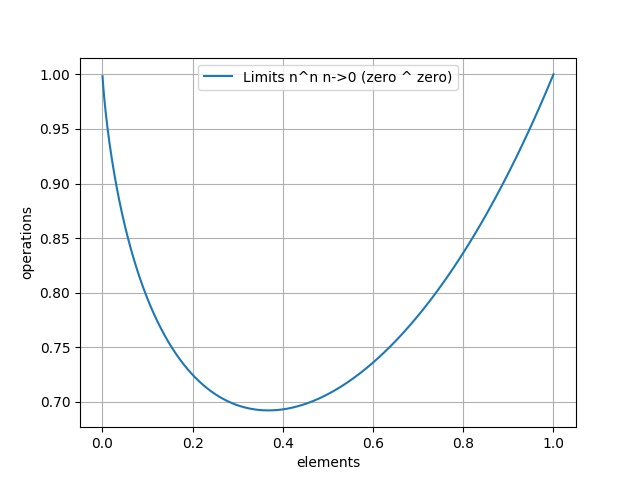
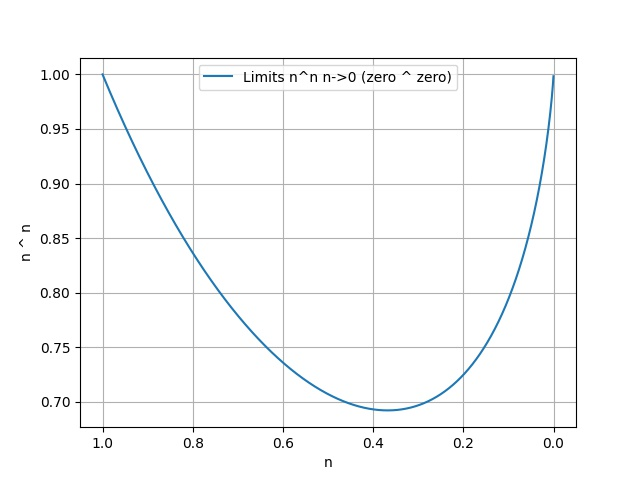
'autogen README.tex.md:added creat_TOC comments'

diff --git a/matplotlib/plot.py b/matplotlib/plot.py
@@ -13,7 +13,7 @@ from pprint import pprint
 
 from pathlib import Path
 
-IMAGE_SCRATCH = Path('../scratch')    # scratch space not maintained by git
+IMAGE_SCRATCH = Path('./scratch')    # scratch space not maintained by git
 # NOTE to save jpg using matplotlib
 #> pip install pillow
 # plt.plot([1, 2])
@@ -50,17 +50,20 @@ for n in float_range:
     zero_2pow_zero.append(pow(n, n))    # pow(n,n) == n**n
     
 
-plt.xlabel('elements') 
-plt.ylabel('operations')
+plt.xlabel('n')               # elements
+plt.ylabel('n ^ n')          # 
 # plt.xscale('log')               # set x scale logarithmic
 # plt.yscale('log')               # set y scale logarithmic
 
 #plt.plot(elements, cos, label = "Graph of Cos (n deg to rads)")
 plt.plot(elements, zero_2pow_zero, label="Limits n^n n->0 (zero ^ zero)")
+plt.gca().invert_xaxis()
+
 
 plt.grid() 
 plt.legend()
-plt.savefig( IMAGE_SCRATCH.join('matplot_graph.jpg') )
+print(Path.cwd())
+plt.savefig( IMAGE_SCRATCH.joinpath('matplot_graph.jpg') )
 plt.show()
 
 

diff --git a/README.tex.md b/README.tex.md
@@ -21,18 +21,21 @@ Maths revision & learning
 4. [Recurrence resolution for - Algos L3 34m](#recurrence-resolution-for--algos-l3-34m)  
 	1. [Problems](#problems)  
 	2. [References](#references)  
-5. [Another topic](#another-topic)  
-	1. [References](#references)  
-6. [How To s](#how-to-s)  
+5. [Python - matplotlib, numpy](#python--matplotlib-numpy)  
 	1. [How so I plot a chart with python?](#how-so-i-plot-a-chart-with-python)  
 	2. [How do I save that chart to disk?](#how-do-i-save-that-chart-to-disk)  
-	3. [Where are Latex Examples for this repo?](#where-are-latex-examples-for-this-repo)  
-	4. [How to setup autogenerate README.md file from RTF notes?](#how-to-setup-autogenerate-readmemd-file-from-rtf-notes)  
-	5. [How do I autogenerate README.md file from RTF?](#how-do-i-autogenerate-readmemd-file-from-rtf)  
-	6. [How can I add maths formulas to README.md?](#how-can-i-add-maths-formulas-to-readmemd)  
+	3. [How Do I invert x axis?](#how-do-i-invert-x-axis)  
+	4. [References](#references)  
+6. [Another topic](#another-topic)  
+	1. [References](#references)  
+7. [How To s](#how-to-s)  
+	1. [Where are Latex Examples for this repo?](#where-are-latex-examples-for-this-repo)  
+	2. [How to setup autogenerate README.md file from RTF notes?](#how-to-setup-autogenerate-readmemd-file-from-rtf-notes)  
+	3. [How do I autogenerate README.md file from RTF?](#how-do-i-autogenerate-readmemd-file-from-rtf)  
+	4. [How can I add maths formulas to README.md?](#how-can-i-add-maths-formulas-to-readmemd)  
 		1. [Manually: Generate math image and embed it.](#manually-generate-math-image-and-embed-it)  
 		2. [Automagically: Install texify.](#automagically-install-texify)  
-7. [References](#references)  
+8. [References](#references)  
 
 
 ## AIM:  
@@ -272,31 +275,12 @@ Sumation proof @ 14m
 
 [basic Proof by induction](https://www.youtube.com/watch?v=t_3ACuzEe_8)  
 
-
-
-
-- - - - - - - - - - - - - - - - - - - - - - - - - - - - - - - - - - - - - - - - - - - - - - - - - - - - - - - - - - - - - - - - - - - - - - - - - - - - - - - - - - - - - - - -
-
-
-
-
-
-
-- - - - - - - - - - - - - - - - - - - - - - - - - - - - - - - - - - - - - - - - - - - - - - - - - - - - - - - - - - - - - - - - - - - - - - - - - - - - - - - - - - - - - - - -
-## Another topic
-
-
-
-
-### References
-Limits algebra - manipulations and rules.
-
 - - - - - - - - - - - - - - - - - - - - - - - - - - - - - - - - - - - - - - - - - - - - - - - - - - - - - - - - - - - - - - - - - - - - - - - - - - - - - - - - - - - - - - - -
 
 
 
 - - - - - - - - - - - - - - - - - - - - - - - - - - - - - - - - - - - - - - - - - - - - - - - - - - - - - - - - - - - - - - - - - - - - - - - - - - - - - - - - - - - - - - - -
-## How To s
+## Python - matplotlib, numpy
 ### How so I plot a chart with python?
 ```
 > .pe						# alias .pe='. venv/bin/activate'
@@ -320,7 +304,41 @@ plt.savefig('matplot_graph.jpg')						# save chart
 Example : ) 
 ![matplot_graph.jpg](https://github.com/UnacceptableBehaviour/latex_maths/blob/master/matplotlib/images/matplot_graph.jpg)  
 
+### How Do I invert x axis?
+```
+import matplotlib.pyplot as plt 						# follow ab
+plt.plot(elements, zero_2pow_zero, label="Limits n^n n->0 (zero ^ zero)")	# create chart
+plt.gca().invert_xaxis()				# INVERT axis or invert_yaxis()
+```
 
+
+
+### References
+Matplotlib 
+
+Matplotlib - Examples
+
+- - - - - - - - - - - - - - - - - - - - - - - - - - - - - - - - - - - - - - - - - - - - - - - - - - - - - - - - - - - - - - - - - - - - - - - - - - - - - - - - - - - - - - - -
+
+
+
+
+
+- - - - - - - - - - - - - - - - - - - - - - - - - - - - - - - - - - - - - - - - - - - - - - - - - - - - - - - - - - - - - - - - - - - - - - - - - - - - - - - - - - - - - - - -
+## Another topic
+
+
+
+
+### References
+Limits algebra - manipulations and rules.
+
+- - - - - - - - - - - - - - - - - - - - - - - - - - - - - - - - - - - - - - - - - - - - - - - - - - - - - - - - - - - - - - - - - - - - - - - - - - - - - - - - - - - - - - - -
+
+
+
+- - - - - - - - - - - - - - - - - - - - - - - - - - - - - - - - - - - - - - - - - - - - - - - - - - - - - - - - - - - - - - - - - - - - - - - - - - - - - - - - - - - - - - - -
+## How To s
 ### Where are Latex Examples for this repo?
 [Example equations in PDF format](https://github.com/UnacceptableBehaviour/latex_maths/blob/master/hello_world.pdf)  
 This pdf doc is generated using TeXShop from [hello_world.tex](https://github.com/UnacceptableBehaviour/latex_maths/blob/master/hello_world.tex)  
